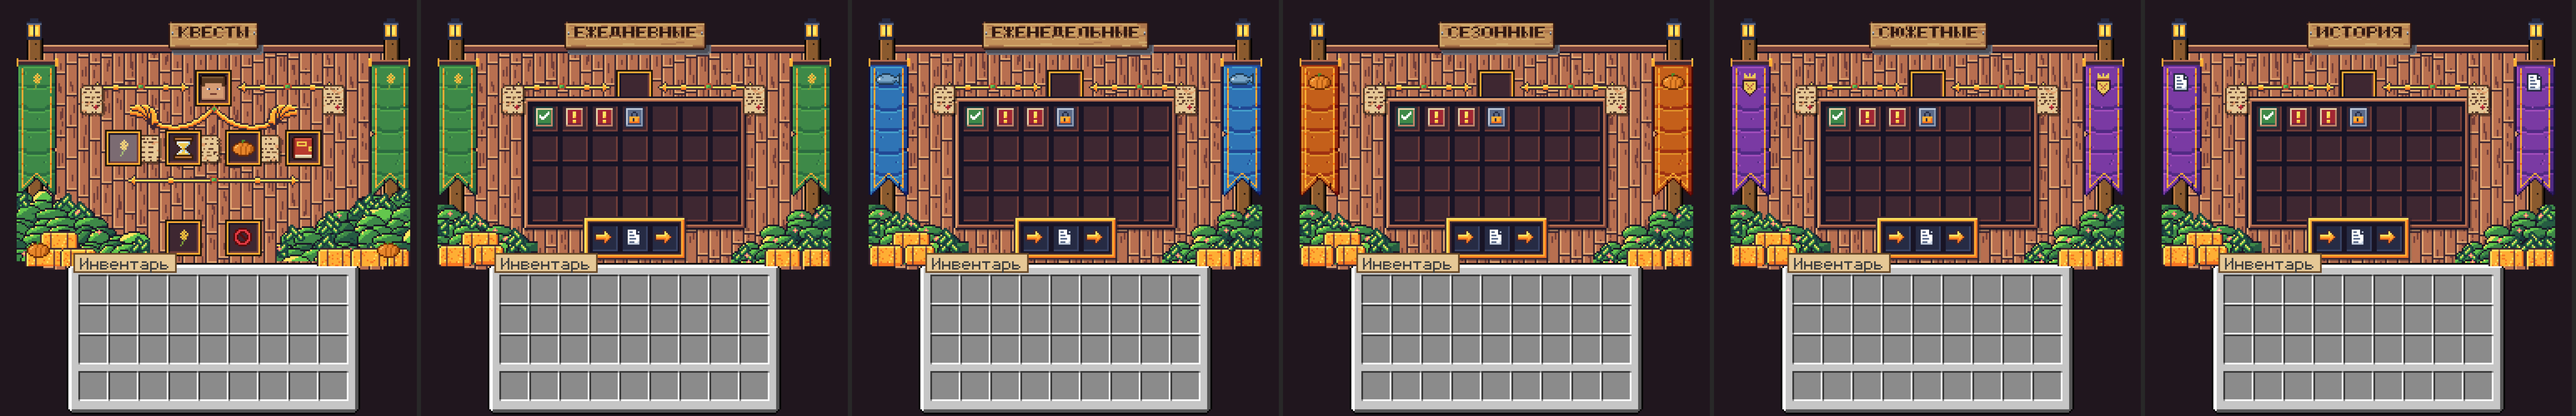
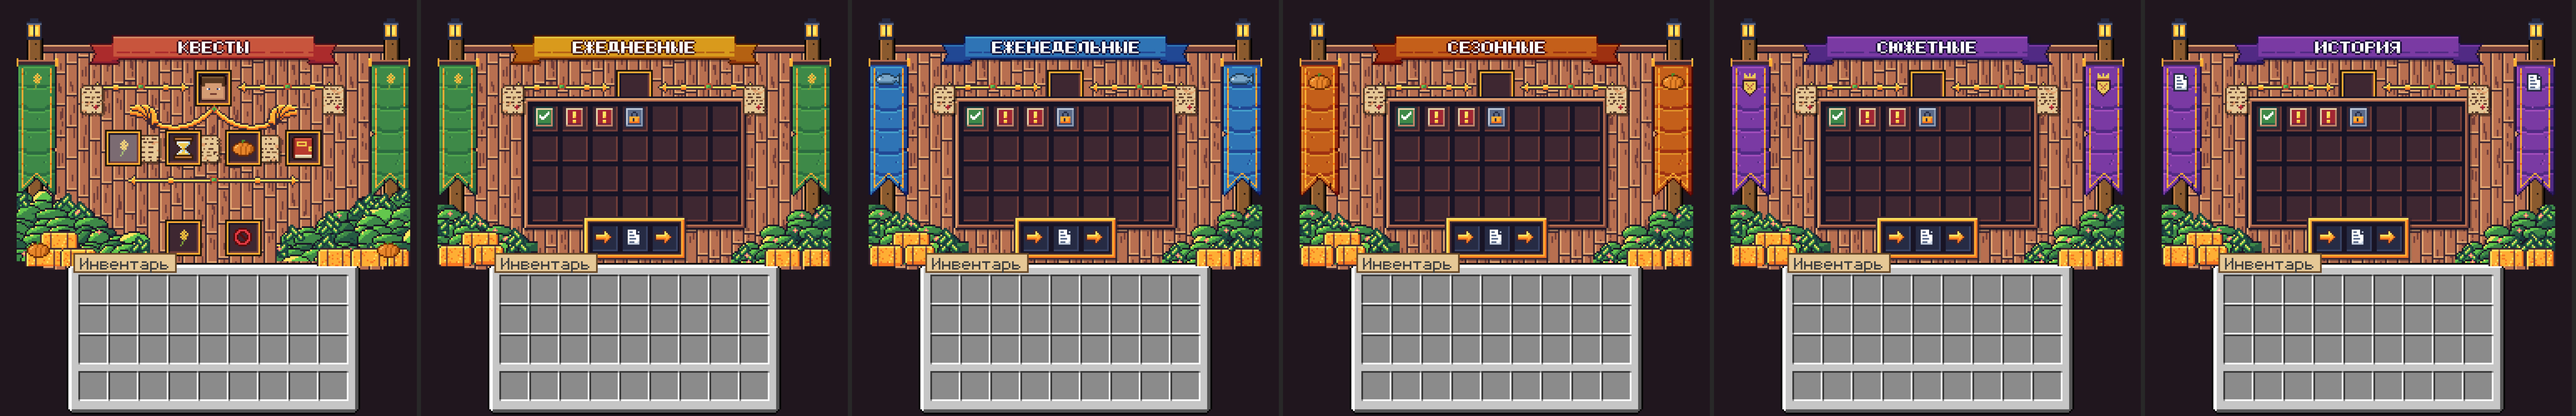
Quest menus: keep the ribbon, bold capitals font for titles
Adds a font: bold option to the skill's ribbon header (patch kept in
gui-specs) and rebuilds the six backgrounds with it.

Claude-Session: https://claude.ai/code/session_015YcF29gpWmsD2yM9RNNMWT

diff --git a/ZenQuests/gui-specs/README.md b/ZenQuests/gui-specs/README.md
@@ -14,3 +14,7 @@ python3 scripts/gui_builder.py gui-specs/pages.json OUT_pages   # daily / weekly
 Плагин сам подставляет эти символы в название окна (`QuestMenu.menuTitle`), глифы Nexo для этого не нужны.
 Раскладка слотов фиксирована в `QuestMenu`: главное — 4 (профиль), 19/21/23/25 (категории), 48 (Ферма+), 50 (закрыть);
 страницы — 4 (шапка), 10..43 без крайних колонок (28 квестов), 48/49/50 (навигация).
+
+Заголовки — лента (`header.style: ribbon`) с жирным шрифтом `font: "bold"` (капители из `shop.letters`, как на
+кухонной вывеске). Этой опции в скилле из ветки нет — она добавлена патчем `gui_builder_ribbon_bold.patch`
+(`patch -p0 scripts/gui_builder.py < gui_builder_ribbon_bold.patch` внутри папки скилла).
